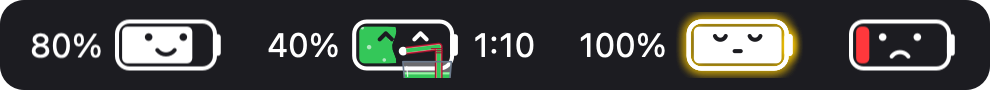
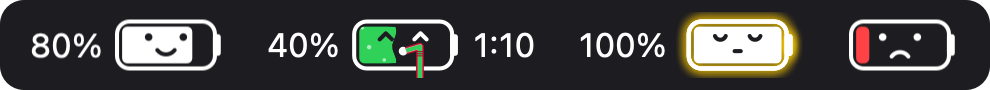
1.10.0: Volta's straw is a 7, and his cup is gone
A short bend into his mouth on a long stem rising from below the bar, ridged
just under the elbow. Without the cup the straw reads clearly at menu-bar
size. README images regenerated with render-glyphs.sh.

Changed region(s): [[0.3939, 0.4667, 0.4545, 0.8667]]

diff --git a/Sources/BatteryTime/BatteryGlyph.swift b/Sources/BatteryTime/BatteryGlyph.swift
@@ -554,7 +554,7 @@ public enum BatteryGlyph {
                 }
 
                 if drinking {
-                    drawStraw(mouth: NSPoint(x: cx, y: mouthY), bodyW: bodyW, bodyH: bodyH, sip: sip)
+                    drawStraw(mouth: NSPoint(x: cx, y: mouthY), bodyH: bodyH, sip: sip)
                 }
                 if stuffed, let b = burp, b > 0.25, b < 0.95 {
                     // The burp: a little bubble rising from his mouth and popping.
@@ -637,51 +637,25 @@ public enum BatteryGlyph {
     /// Smoothstep 0...1.
     private static func ease(_ u: CGFloat) -> CGFloat { let v = max(0, min(1, u)); return v * v * (3 - 2 * v) }
 
-    /// Volta drinking through a straw from a big cup of green charge: only the
-    /// cup's top shows, rising from below the bar in front of him, and a red
-    /// bendy straw (outlined in its own darker red, ridged at the bend, with
-    /// a see-through core) runs from the drink to his mouth. Each sip the
-    /// charge climbs the straw, stays while he drinks, and drains back.
-    private static func drawStraw(mouth: NSPoint, bodyW: CGFloat, bodyH: CGFloat, sip: CGFloat?) {
+    /// Volta drinking green charge through a red bendy straw (outlined in its
+    /// own darker red, ridged below the bend, with a see-through core) that
+    /// rises from below the bar, the drink out of sight. Each sip the charge
+    /// climbs the straw, stays while he drinks, and drains back.
+    private static func drawStraw(mouth: NSPoint, bodyH: CGFloat, sip: CGFloat?) {
         guard let ctx = NSGraphicsContext.current?.cgContext else { return }
         // Still (no animation): the straw full, mid-drink.
         let climb = sip.map(strawFill) ?? 1
 
-        // The glass: a tumbler, a little wider at the rim.
-        // Only the top of a big cup shows: it rises from below the bar, so
-        // its rim is all you see of it.
-        let cupW: CGFloat = bodyH * 0.95, cupH: CGFloat = bodyH * 1.1
-        let cupX = mouth.x + bodyW * 0.235, cupY: CGFloat = -bodyH * 0.78
-        let taper = cupW * 0.1
-        let glass = CGMutablePath()
-        glass.move(to: CGPoint(x: cupX - cupW / 2 + taper, y: cupY))
-        glass.addLine(to: CGPoint(x: cupX + cupW / 2 - taper, y: cupY))
-        glass.addLine(to: CGPoint(x: cupX + cupW / 2, y: cupY + cupH))
-        glass.addLine(to: CGPoint(x: cupX - cupW / 2, y: cupY + cupH))
-        glass.closeSubpath()
-        let edge = NSColor(srgbRed: 0.42, green: 0.48, blue: 0.55, alpha: 1).cgColor
-
-        // The straw: up out of the glass, bent over, down into his mouth.
+        // The straw, shaped like a 7: a long stem up from below the bar, then
+        // a short bend over into his mouth.
         let w: CGFloat = 2.6, rim: CGFloat = 0.42
-        let foot = CGPoint(x: cupX + cupW * 0.24, y: 0)
-        let bend = CGPoint(x: foot.x, y: mouth.y + bodyH * 0.09)
         let tip = CGPoint(x: mouth.x + bodyH * 0.06, y: mouth.y + bodyH * 0.01)
+        let foot = CGPoint(x: tip.x + bodyH * 0.27, y: 0)
+        let bend = CGPoint(x: foot.x, y: mouth.y + bodyH * 0.09)
         let straw = CGMutablePath()
         straw.move(to: foot); straw.addLine(to: bend); straw.addLine(to: tip)
         let red = NSColor(srgbRed: 1, green: 0.3, blue: 0.4, alpha: 1).cgColor
         let darkRed = NSColor(srgbRed: 0.62, green: 0.08, blue: 0.18, alpha: 1).cgColor
-
-        // Glass back and liquid first, so the straw stands in the drink.
-        ctx.saveGState()
-        ctx.addPath(glass); ctx.setFillColor(NSColor(white: 1, alpha: 0.35).cgColor); ctx.fillPath()
-        let level = cupY + cupH * (0.86 - 0.05 * climb)
-        ctx.addPath(glass); ctx.clip()
-        ctx.setFillColor(NSColor.systemGreen.cgColor)
-        ctx.fill(CGRect(x: cupX - cupW, y: cupY, width: cupW * 2, height: level - cupY))
-        // The drink's surface, a lighter line just under the rim.
-        ctx.setFillColor(NSColor(srgbRed: 0.6, green: 0.95, blue: 0.65, alpha: 1).cgColor)
-        ctx.fill(CGRect(x: cupX - cupW, y: level - 0.7, width: cupW * 2, height: 0.7))
-        ctx.restoreGState()
 
         // Straw outline, body, see-through core and the climbing charge.
         let outer = straw.copy(strokingWithWidth: w, lineCap: .butt, lineJoin: .round, miterLimit: 4)
@@ -705,22 +679,14 @@ public enum BatteryGlyph {
         ctx.addPath(column.copy(strokingWithWidth: w, lineCap: .butt, lineJoin: .round, miterLimit: 4))
         ctx.setFillColor(NSColor.systemGreen.cgColor); ctx.fillPath()
         ctx.restoreGState()
-        // Ridges where it bends.
+        // Ridges on the stem just below the bend.
         ctx.saveGState(); ctx.addPath(outer); ctx.clip()
+        ctx.clip(to: CGRect(x: bend.x - w / 2, y: 0, width: w, height: bend.y))
         ctx.setStrokeColor(darkRed); ctx.setLineWidth(0.35)
-        for k in 1...3 {
-            let y = bend.y - CGFloat(k) * 0.7
+        for k in 0..<3 {
+            let y = bend.y - w / 2 - 0.4 - CGFloat(k) * 0.7
             ctx.move(to: CGPoint(x: bend.x - w, y: y)); ctx.addLine(to: CGPoint(x: bend.x + w, y: y))
         }
         ctx.strokePath(); ctx.restoreGState()
-
-        // Glass front: the rim and sides over the straw, and a glint.
-        ctx.saveGState()
-        ctx.addPath(glass); ctx.setStrokeColor(edge); ctx.setLineWidth(0.55); ctx.setLineJoin(.round); ctx.strokePath()
-        ctx.setStrokeColor(NSColor(white: 1, alpha: 0.8).cgColor); ctx.setLineWidth(0.4); ctx.setLineCap(.round)
-        ctx.move(to: CGPoint(x: cupX - cupW / 2 + 1.6, y: 0.5))
-        ctx.addLine(to: CGPoint(x: cupX - cupW / 2 + 1.3, y: cupY + cupH - 1.6))
-        ctx.strokePath()
-        ctx.restoreGState()
     }
 }

diff --git a/README.md b/README.md
@@ -2,7 +2,7 @@
 
 <p align="center"><img src="docs/mascot.png" width="160" alt="Volta, Battery Time's menu-bar character, on its app icon"></p>
 
-<p align="center"><img src="docs/animation.png" alt="Volta blinking while his charge sloshes, drinking from a cup through a bendy straw while charging, and burping when full"></p>
+<p align="center"><img src="docs/animation.png" alt="Volta blinking while his charge sloshes, drinking through a bendy straw while charging, and burping when full"></p>
 
 **Version 1.10.0** · [Changelog](https://github.com/nicholaspsmith/battery-time-menubar/releases)
 
@@ -53,9 +53,9 @@ so it stays visible.
 
 - **On battery** — time to empty; the fill turns **red** at ≤20%.
 - **Charging** — time to full. With the face on, the fill turns green and Volta
-  drinks through a red bendy straw from a big cup in front of him: the charge
-  climbs the straw, stays while he gulps and his charge ripples and bubbles,
-  then drains back for the next sip; with the face off, a **bolt** cuts through the glyph.
+  drinks through a red bendy straw: the charge climbs the straw, stays while he
+  gulps and his charge ripples and bubbles, then drains back for the next sip;
+  with the face off, a **bolt** cuts through the glyph.
 - **Plugged in, not charging** (full, or macOS holding the charge at a limit) —
   with the face on, Volta is full: eyes contentedly closed, glowing yellow.
 - **Battery health** — with the face on, Volta wears out with the battery. Down

diff --git a/CHANGELOG.md b/CHANGELOG.md
@@ -12,6 +12,7 @@ Versions follow [Semantic Versioning](https://semver.org/). The full rule:
 
 - Volta now looks brand new down to 92.5% battery health (he used to wrinkle from 99%), then wears out all the way to 40%: wrinkles, then a grandpa's brows, eye bags and heavy lids, then a crack with a band-aid on it, then drips of his charge (in its colour) and a spreading puddle, and finally the patch gives way, an eye goes ✕ and his terminal falls off into the puddle
 - Health thresholds use the exact capacity ratio, so 92.9% no longer counts as 92%
+- While charging, Volta's straw is shaped like a 7, a short bend into his mouth on a long stem, and his cup is gone, so the straw reads clearly at menu-bar size
 
 ## [1.9.0] - 2026-10-09
 
